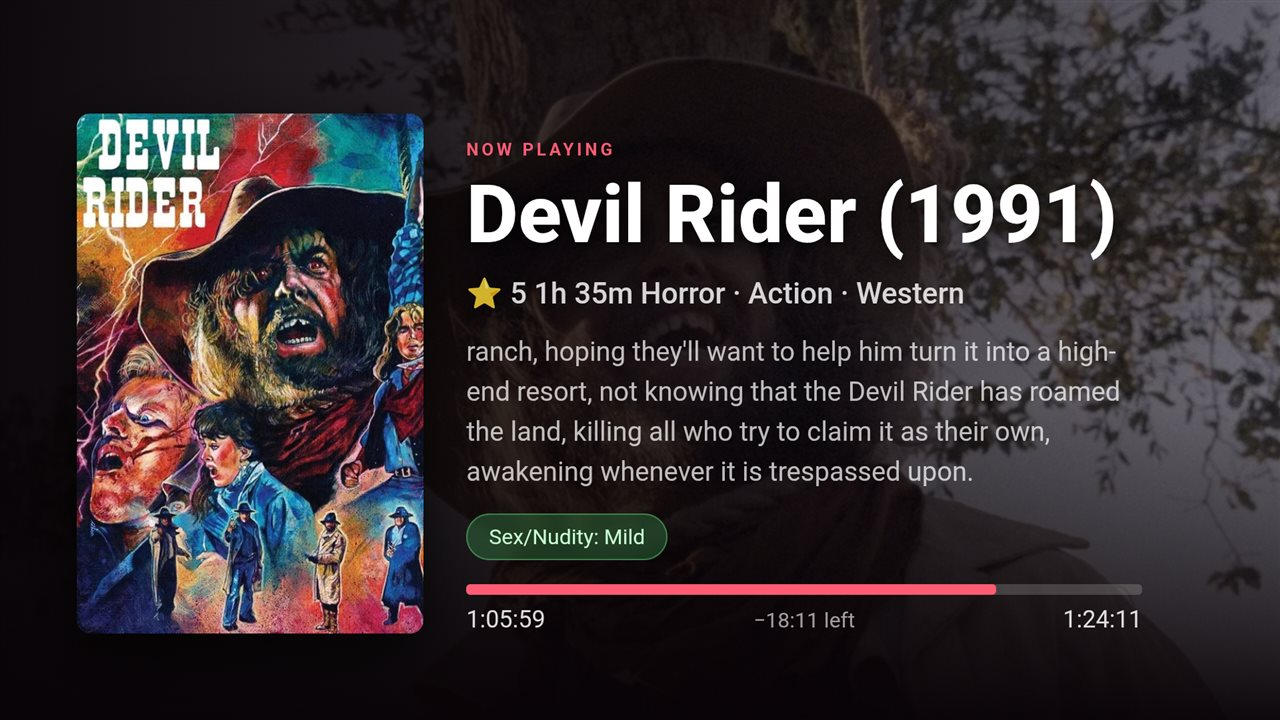
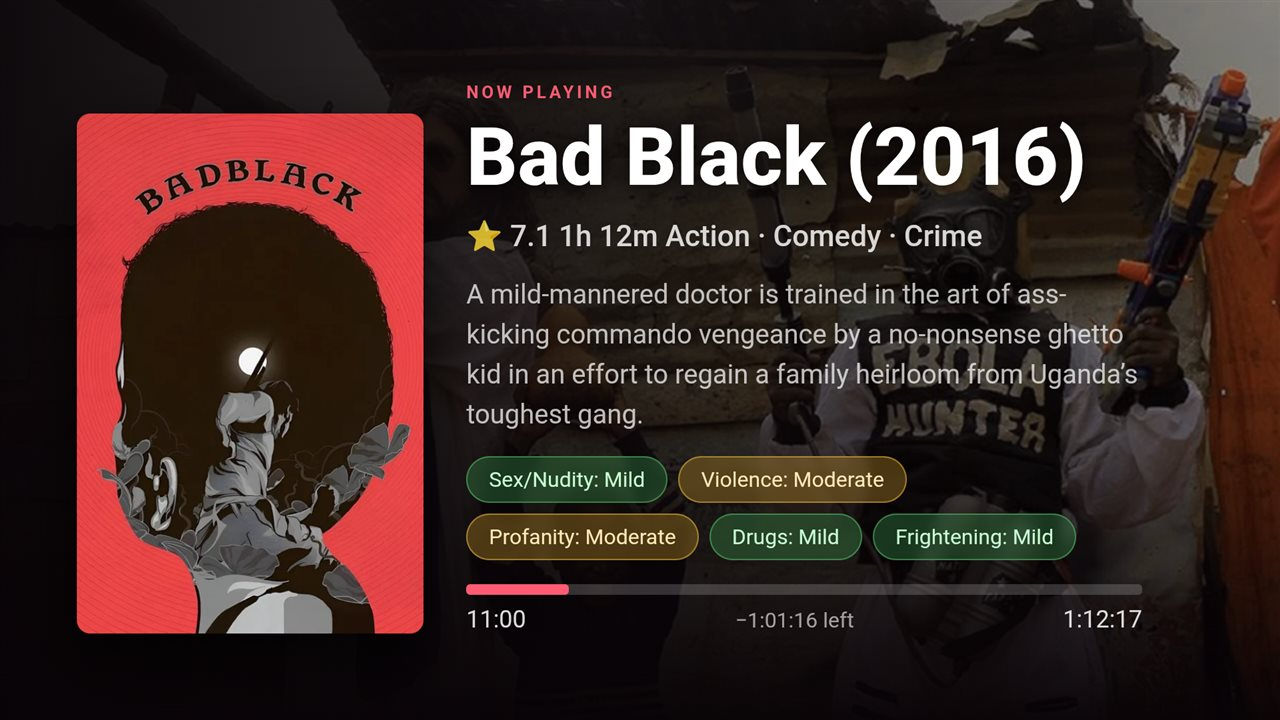
docs: add Trivia screenshot, refresh Now-Playing card image
- README: add an IMDb Trivia entry to the Screenshots section.
- Replace the Now-Playing card shot with a clearer one (Bad Black) showing the
  full set of Parent Guide chips, and add the trivia panel image.

diff --git a/README.md b/README.md
@@ -27,6 +27,10 @@ A native **Android app for [CyTube](https://cytu.be)** — built for the couch o
 
 ![Now-Playing info card with progress bar](docs/images/now-playing.jpg)
 
+**IMDb Trivia** — a summonable, scrollable panel of trivia for the current film (`T` or the title link).
+
+![IMDb trivia panel](docs/images/trivia.jpg)
+
 **Coming Attractions** — a D‑pad‑navigable reel of upcoming posters across the top.
 
 ![Coming Attractions poster reel](docs/images/coming-attractions.jpg)
